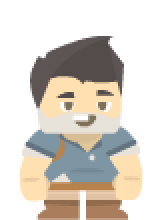
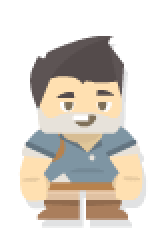
Bake the navy drop shadow into every Adventurer frame.
Idle, jump, and both sheets get a 2x4 px (1x) #16324F 35% offset shadow. Compare mockup uses the baked sprite, not a CSS filter. Phase 2 must keep this on the atlas.

Changed region(s): [[0.0938, 0.1364, 0.9062, 1.0], [0.7188, 0.2455, 0.75, 0.2727]]

diff --git a/docs/mockups/phase1-overall/char-compare-desktop.html b/docs/mockups/phase1-overall/char-compare-desktop.html
@@ -23,10 +23,10 @@
     .fig.robot { left: 26%; }
     .fig.adv {
       left: 74%;
-      width: 92px;
+      width: 96px;
       image-rendering: pixelated;
       bottom: calc(46% + 62px);
-      filter: drop-shadow(2px 4px 0 rgba(22, 50, 79, 0.35));
+      filter: none;
     }
     body.desktop .fig.robot { left: 27%; }
     body.desktop .fig.adv { left: 73%; }

diff --git a/docs/mockups/phase1-overall/char-compare-mobile.html b/docs/mockups/phase1-overall/char-compare-mobile.html
@@ -23,10 +23,10 @@
     .fig.robot { left: 26%; }
     .fig.adv {
       left: 74%;
-      width: 92px;
+      width: 96px;
       image-rendering: pixelated;
       bottom: calc(46% + 62px);
-      filter: drop-shadow(2px 4px 0 rgba(22, 50, 79, 0.35));
+      filter: none;
     }
     body.desktop .fig.robot { left: 27%; }
     body.desktop .fig.adv { left: 73%; }

diff --git a/docs/visual-direction.md b/docs/visual-direction.md
@@ -15,7 +15,7 @@ Locked in Phase 1. Do not reopen unless Mike changes them.
 | Menu | **Toy buttons** — big navy buttons, selected gold, gold **Start Climb**. Robot (or chosen character) waits on the ground. |
 | End overlay | **Report card** — cream paper sheet, “You fell!” / “You made it!”, platform count, NEW RECORD pill, Climb again, Change setup |
 | Title type | Paytone One wordmark in the sky |
-| Player | **Adventurer** from `reference assets/adventurer_tilesheet.png` (80×110 cells). Idle `0,0` / `1,8`. Jump duck `1,0` → air `0,4` → kick `2,2`. Slight navy offset drop-shadow (`2px 4px`, 35%). Nearest-neighbor scale. Foozle robot unused. |
+| Player | **Adventurer** from `reference assets/adventurer_tilesheet.png` (80×110 cells). Idle `0,0` / `1,8`. Jump duck `1,0` → air `0,4` → kick `2,2`. **Drop shadow is part of the sprite:** navy `#16324F` at 35% opacity, offset 2px right and 4px down at 1× (scale with nearest-neighbor). Do not omit it in the atlas or in-engine. Foozle robot unused. |
 
 Play column ~420px centered. Desktop landscape expands the sky on both sides. Mobile is the column only.
 
@@ -27,4 +27,4 @@ Play column ~420px centered. Desktop landscape expands the sky on both sides. Mo
 
 ## Not yet produced (Phase 2)
 
-Adventurer atlas from the tilesheet (idle + jump, transparent, integer scale). Sod platforms as Phaser graphics or a sprite. Pause/CTA as Phaser + type matching A Classic. Drop-shadow on the adventurer in-engine.
+Adventurer atlas from the tilesheet (idle + jump, transparent, integer scale) **with the navy drop shadow baked into every frame**. Sod platforms as Phaser graphics or a sprite. Pause/CTA as Phaser + type matching A Classic.

diff --git a/docs/mockups/phase1-characters/README.md b/docs/mockups/phase1-characters/README.md
@@ -12,3 +12,5 @@ Foozle cute robot doesn’t match the locked Cut-paper world. Four replacements:
 In-game composites: `docs/mockups/phase1-overall/char-r*-mobile.png`. Paper cutouts are approximate (navy helmet/shadow vs cobalt sky). Stills `r*-idle.jpg` are the clean look for R1–R3.
 
 Adventurer jump frames from the Kenney-style sheet: duck `1,0` → air `0,4` → kick `2,2`. Idle: `0,0` and `1,8`.
+
+**Drop shadow is baked into** `r4-adventurer-idle.png`, `r4-adventurer-jump.png`, and both sheets: navy `#16324F` @ 35%, offset 2×4 px at 1× (4×8 at 2×, 6×12 at 3× sheets). Phase 2 must keep this on every frame.

diff --git a/docs/logs/plan-log.md b/docs/logs/plan-log.md
@@ -92,6 +92,11 @@ Re-rendered the compare with a slight navy offset drop-shadow on the adventurer 
 
 Player = **Adventurer** (tilesheet + drop shadow). Full visual direction in `docs/visual-direction.md`. Phase 1 complete. Phase 2 (core loop: whole / normal / Challenge) waits on Mike.
 
+## 2026-09-14 — Drop shadow baked into adventurer sprites
+
+Navy `#16324F` @ 35%, offset 2px right / 4px down at 1×, scaled with nearest-neighbor. Applied to idle, jump, and both 8-frame sheets. Compare mockup uses the baked PNG (no CSS filter). Phase 2 atlas must keep this on every frame.
+
+
 
 
 
